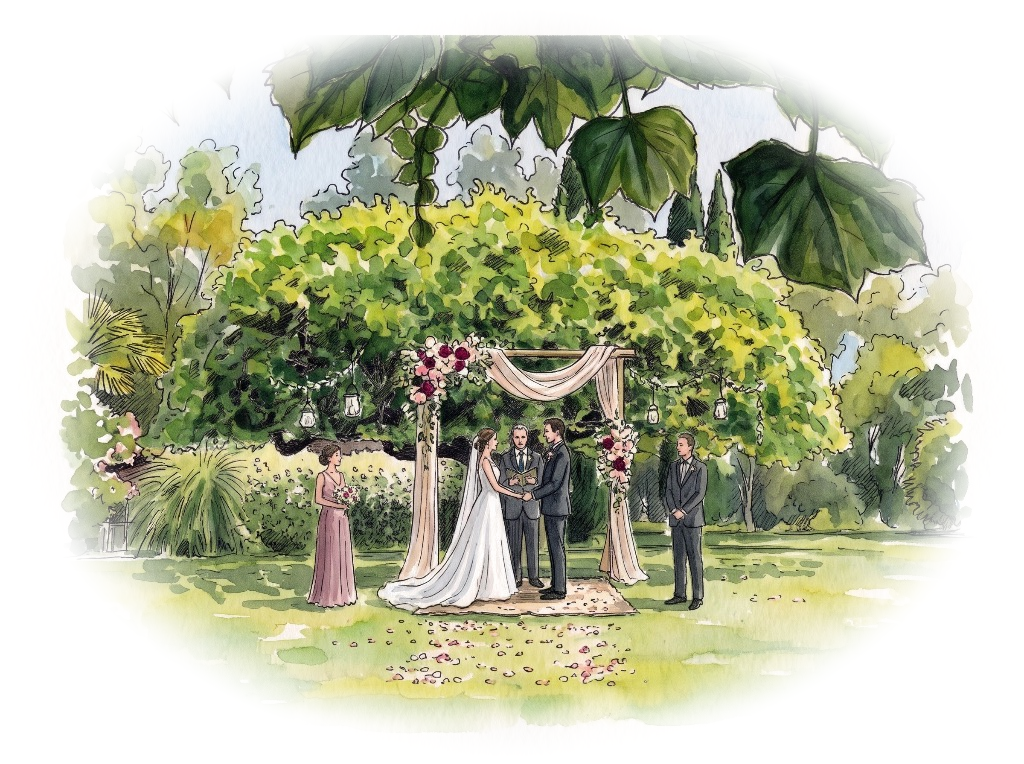
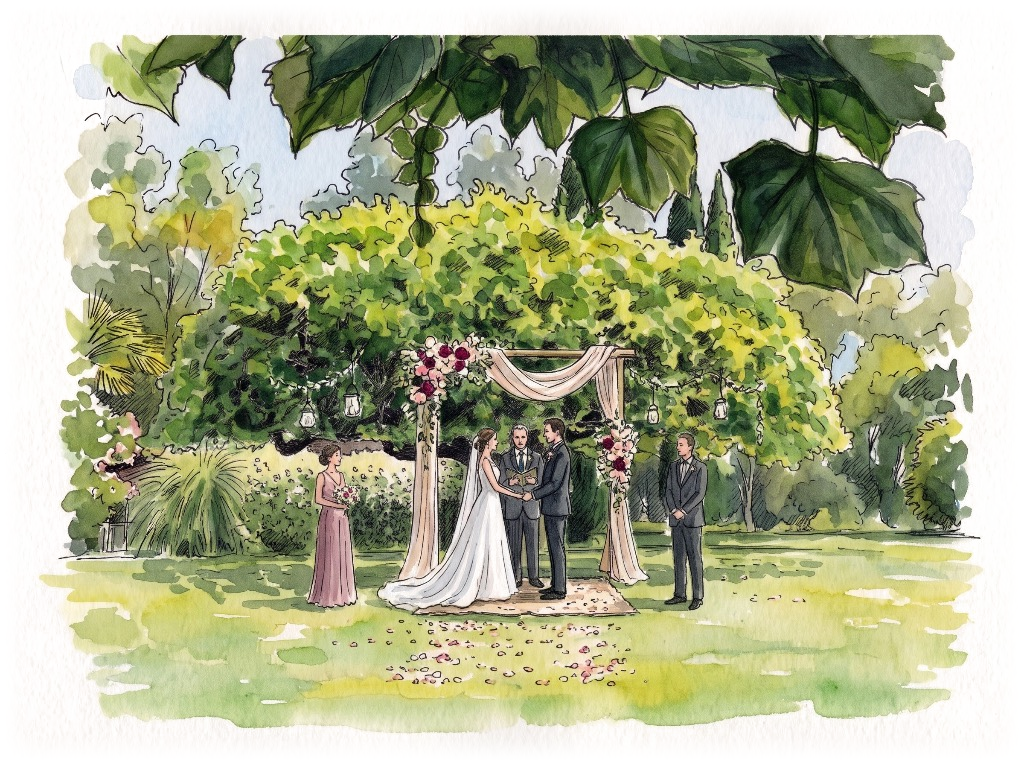
Sfumatura rettangolare morbida e riduzione spazio sopra/sotto in Timeline

Changed region(s): [[0.0312, 0.0301, 0.9688, 0.9634], [0.9375, 0.2107, 0.9688, 0.2709]]

diff --git a/src/components/Timeline.tsx b/src/components/Timeline.tsx
@@ -49,15 +49,15 @@ export const Timeline: React.FC = () => {
   ];
 
   return (
-    <section id="timeline" className="py-20 px-4 max-w-4xl mx-auto scroll-mt-10 bg-white">
+    <section id="timeline" className="pt-4 sm:pt-6 pb-20 px-4 max-w-4xl mx-auto scroll-mt-10 bg-white">
       {/* 
         Acquerello autentico della Cerimonia nel Giardino
-        Con le stesse dimensioni, proporzioni e sfocato morbido ai bordi della cappella e della facciata
+        Con le stesse dimensioni, proporzioni e sfocato rettangolare morbido ai bordi della facciata
       */}
-      <div className="mb-10 max-w-2xl mx-auto text-center px-2">
+      <div className="mb-5 sm:mb-6 max-w-2xl mx-auto text-center px-2">
         <div className="relative inline-block w-full">
           <img
-            src="./images/cerimonia_giardino_sfumato.png"
+            src="./images/cerimonia_giardino_sfumato.png?v=2"
             alt="Rito civile ad acquerello tra gli alberi di Tenuta Tana di Volpe"
             className="w-full h-auto max-h-[380px] object-contain mx-auto filter contrast-[1.03]"
             loading="lazy"
@@ -65,7 +65,7 @@ export const Timeline: React.FC = () => {
         </div>
       </div>
 
-      <div className="text-center mb-16">
+      <div className="text-center mb-12">
         <p className="font-sans text-xs uppercase tracking-[0.35em] text-sage font-medium mb-3">
           I Momenti della Giornata
         </p>
